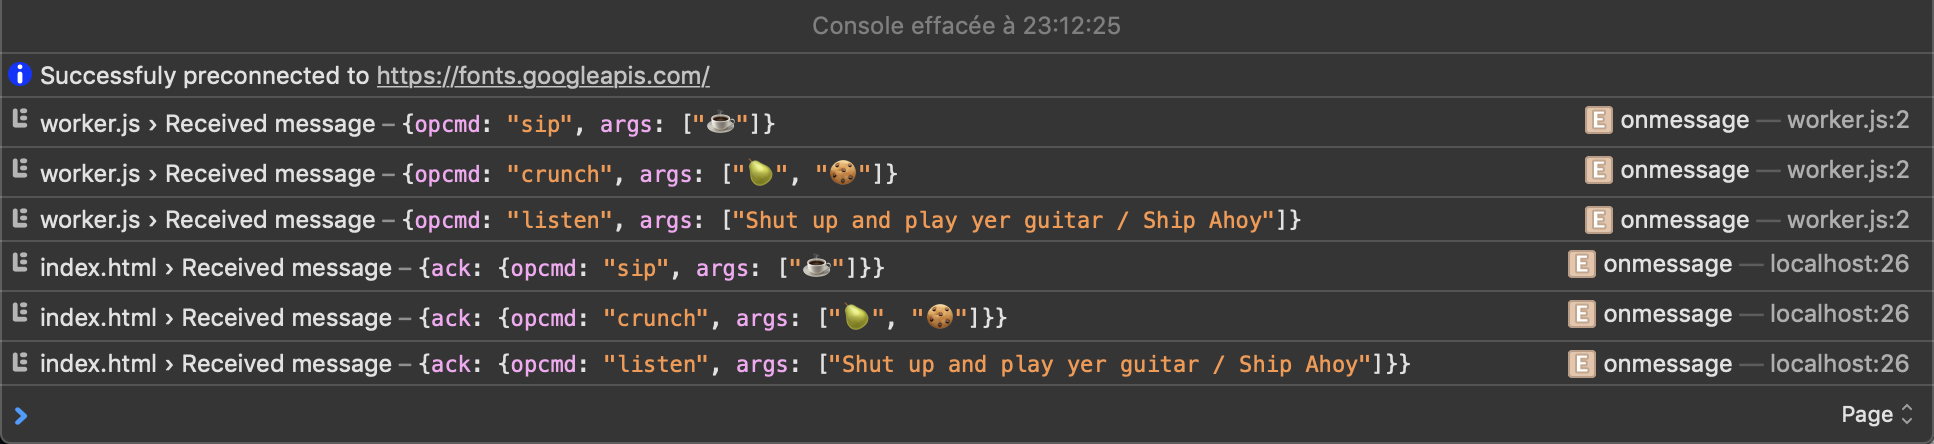
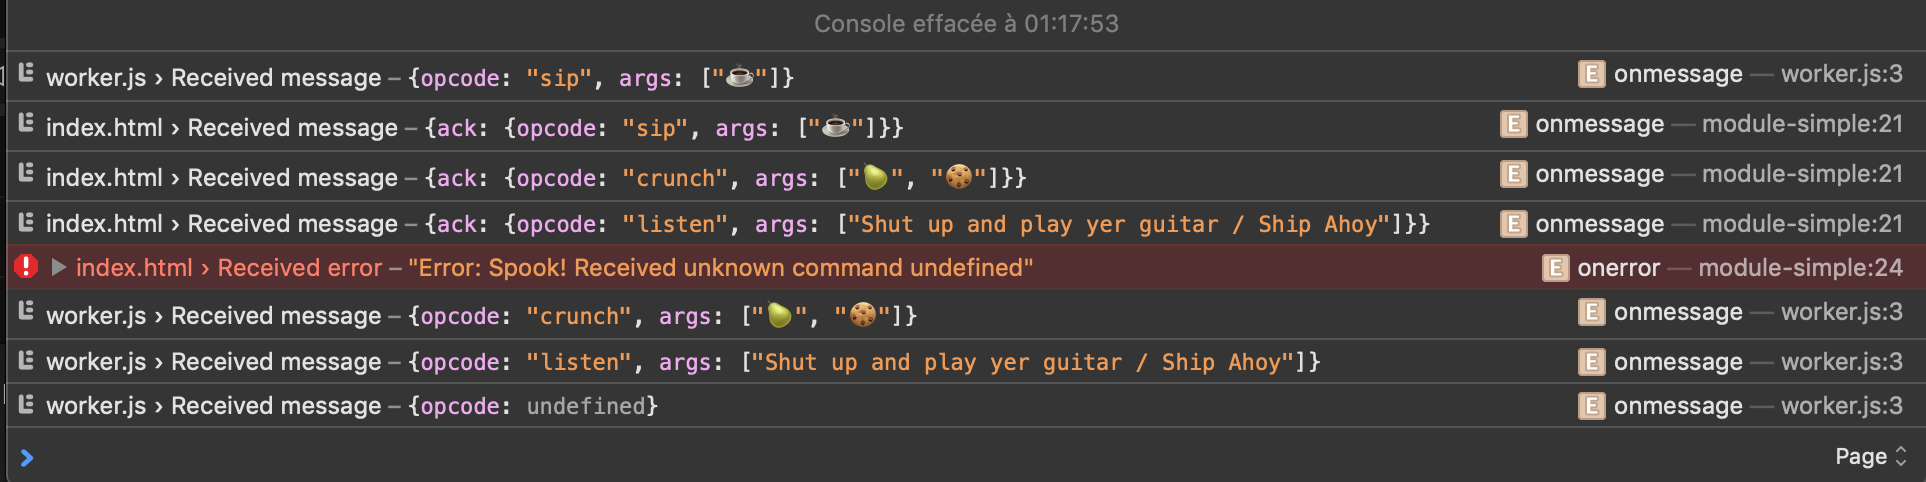
Adds error throwing in workers (#3)

Changed region(s): [[0.0, 0.0, 1.0, 1.0]]

diff --git a/experiments/01-instantiation/module-simple/index.html b/experiments/01-instantiation/module-simple/index.html
@@ -21,11 +21,13 @@
         console.log( "index.html › Received message", msg.data);
       };
       worker.onerror = (err) => {
-        console.error( "index.html › Received error", err);
+        console.error( "index.html › Received error", err.message);
+        err.preventDefault();
       };
-      worker.postMessage( { opcmd: "sip", args: [ "☕" ] });
-      worker.postMessage( { opcmd: "crunch", args: [ "🍐", "🍪" ] });
-      worker.postMessage( { opcmd: "listen", args: [ "Shut up and play yer guitar / Ship Ahoy" ] });
+      worker.postMessage( { opcode: "sip", args: [ "☕" ] });
+      worker.postMessage( { opcode: "crunch", args: [ "🍐", "🍪" ] });
+      worker.postMessage( { opcode: "listen", args: [ "Shut up and play yer guitar / Ship Ahoy" ] });
+      worker.postMessage( { opcode: undefined });
     </script>
     <noscript>Please enable JavaScript to view this website.</noscript>
 

diff --git a/experiments/01-instantiation/classic-simple/index.html b/experiments/01-instantiation/classic-simple/index.html
@@ -21,11 +21,13 @@
         console.log( "index.html › Received message", msg.data);
       };
       worker.onerror = (err) => {
-        console.error( "index.html › Received error", err);
+        console.error( "index.html › Received error", err.message);
+        err.preventDefault();
       };
-      worker.postMessage( { opcmd: "sip", args: [ "☕" ] });
-      worker.postMessage( { opcmd: "crunch", args: [ "🍐", "🍪" ] });
-      worker.postMessage( { opcmd: "listen", args: [ "Miles Ahead / Gone 2015" ] });
+      worker.postMessage( { opcode: "sip", args: [ "☕" ] });
+      worker.postMessage( { opcode: "crunch", args: [ "🍐", "🍪" ] });
+      worker.postMessage( { opcode: "listen", args: [ "Miles Ahead / Gone 2015" ] });
+      worker.postMessage( { opcode: undefined });
     </script>
     <noscript>Please enable JavaScript to view this website.</noscript>
 

diff --git a/experiments/01-instantiation/module-simple/worker.js b/experiments/01-instantiation/module-simple/worker.js
@@ -1,4 +1,12 @@
 self.onmessage = (msg) => {
-  console.log( "worker.js › Received message", msg.data);
-  self.postMessage( { ack: msg.data });
+  const data = msg.data;
+  console.log( "worker.js › Received message", data);
+  switch( typeof data.opcode) {
+    case "undefined":
+      throw new Error( `Spook! Received unknown command ${data.opcode}`);
+      break;
+    default:
+      self.postMessage( { ack: msg.data });
+      break;
+  }
 };

diff --git a/experiments/01-instantiation/classic-simple/worker.js b/experiments/01-instantiation/classic-simple/worker.js
@@ -1,4 +1,11 @@
 self.onmessage = (msg) => {
-  console.log( "worker.js › Received message", msg.data);
-  self.postMessage( { ack: msg.data });
+  const data = msg.data;
+  console.log( "worker.js › Received message", data);
+  switch( typeof data.opcode) {
+    case "undefined":
+      throw new Error( `Holy cow! Received unknown command ${data.opcode}`);
+    default:
+      self.postMessage( { ack: msg.data });
+      break;
+  }
 };
